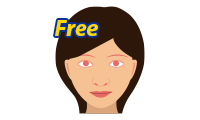
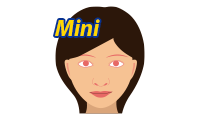
main

Changed region(s): [[0.24, 0.125, 0.51, 0.325]]

diff --git a/js/ui.js b/js/ui.js
@@ -13,7 +13,8 @@ function CreateMenu(ele_p) {
 
             photoshop: "photoshop",
             SkinBeautyRetouch: "Skin Beauty Retouch",
-            FreeSkinBeautyRetouch: "Free Skin Beauty Retouch",
+            QuickRetouch: "Quick retouch",
+            FreeSkinBeautyRetouch: "Skin Beauty Retouch Mini",
             PhotoEffects: "Photo Effects",
             CartoonEffects: "Cartoon effects",
             SketchEffects: "Sketch effects",
@@ -78,6 +79,17 @@ function CreateMenu(ele_p) {
                                         text: menu_text().SkinBeautyRetouch
                                     }),
                                 ]),
+                                EJ({
+                                    type: "ul",
+                                    cn: "down_menu2"
+                                }, [
+                                    EJ({
+                                        type: "li",
+                                        id: "menu_quick_retouch",
+                                        text: menu_text().QuickRetouch
+                                    }),
+                                ]),
+                                
                                 EJ({
                                     type: "ul",
                                     cn: "down_menu2"
@@ -279,7 +291,8 @@ function CreateProList(ele_p, ) {
                 id: "ProList"
             },
             [
-                cpl("ProList_retouch_free", "retouch_free.png", "Free Skin Beauty Retouch"),
+                // cpl("ProList_retouch_Mini", "retouch_free.png", "Free Skin Beauty Retouch"),
+                cpl("ProList_retouch_quick", "retouch_quick.png", "quick retouch"),
                 cpl("ProList_skinRetouch", "skinRetouch.png", "Skin Beauty Retouch pro"),
                 cpl("ProList_PhotoEffects", "PhotoEffects.png", "Photo Effects"),
                 cpl("ProList_cartoonEffects", "cartoonEffects.png", "Cartoon effects"),
@@ -415,7 +428,10 @@ function CreateEvent() {
         if (e.target.id == "ProList_skinRetouch") {
             open_web_PS("c7ac739d");
         }
-        if (e.target.id == "ProList_retouch_free") {
+        if (e.target.id == "ProList_retouch_quick") {
+            open_web_PS("d075cd8d");
+        }
+        if (e.target.id == "ProList_retouch_Mini") {
             open_web_PS("3a0d9f39");
         }
         if (e.target.id == "ProList_PhotoEffects") {
@@ -488,6 +504,9 @@ function CreateEvent_TopAndBottom() {
         }
         if (e.target.id == "menu_retouch") {
             open_web_PS("c7ac739d");
+        }
+        if (e.target.id == "menu_quick_retouch") {
+            open_web_PS("d075cd8d");
         }
         if (e.target.id == "menu_retouch_free") {
             open_web_PS("3a0d9f39");
